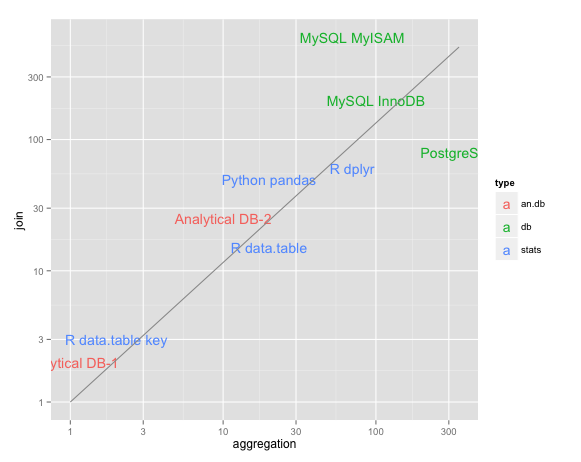
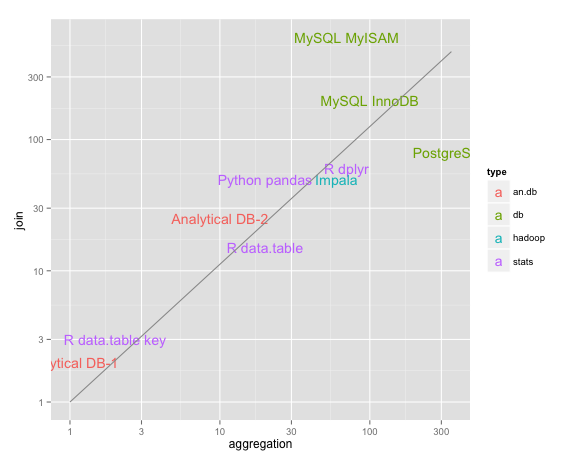
impala

diff --git a/README.md b/README.md
@@ -128,6 +128,7 @@ a comprehensive SQL benchmark is out of the scope here.
 |  db      | PostgreSQL       |   120         |       350      |    80    |
 |  an.db   | Analytical DB-1  |   100         |       1        |    2     |
 |  an.db   | Analytical DB-2  |   150         |       10       |    25    |
+|  hadoop  | Impala           |   20          |       60       |    50    |
 
 ![plots](https://github.com/szilard/benchm-databases/blob/master/plot.png)
 
